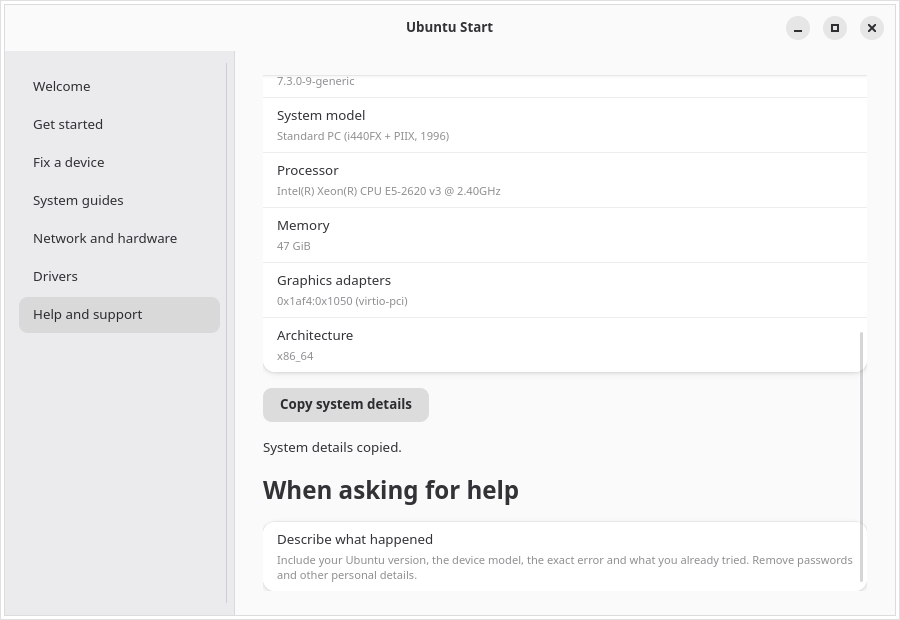
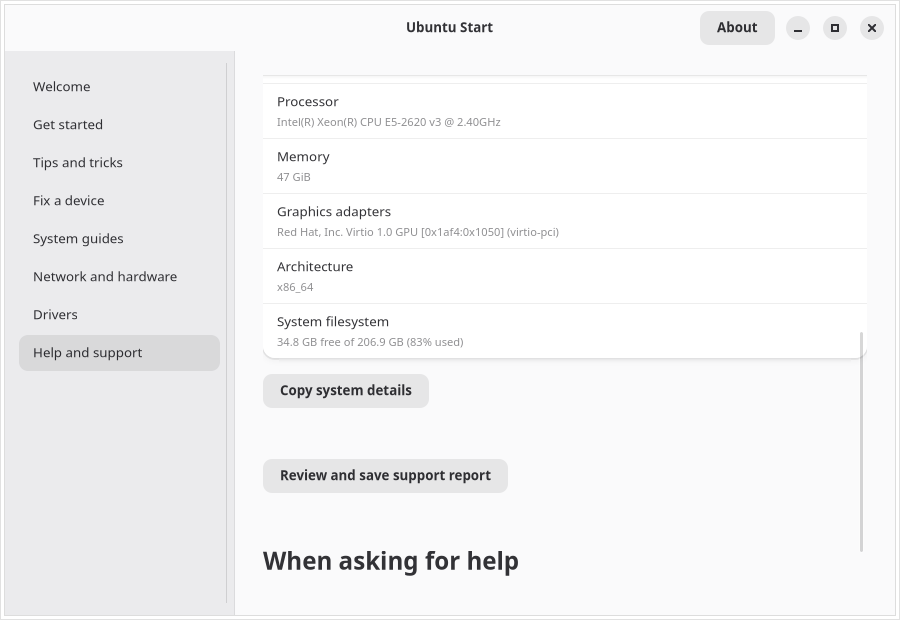
Include storage capacity in support details

diff --git a/tests/test_accessibility_announcements.py b/tests/test_accessibility_announcements.py
@@ -192,6 +192,42 @@ class AboutDialogTests(unittest.TestCase):
         dialog.present.assert_called_once_with(app.get_active_window.return_value)
 
 
+class SystemDetailsTests(unittest.TestCase):
+    @patch("ubuntu_start.read_storage_locations")
+    @patch("ubuntu_start.read_hardware_details")
+    @patch("ubuntu_start.platform.freedesktop_os_release", return_value={"PRETTY_NAME": "Ubuntu Test"})
+    def test_system_details_include_separate_filesystem_capacity(self, _os_release, hardware, storage):
+        hardware.return_value = {
+            "system_model": "Test model", "processor": "Test CPU", "memory": "8 GiB",
+            "graphics": [], "architecture": "x86_64",
+        }
+        storage.return_value = {
+            "system": {"total": 1000, "used": 500, "free": 500},
+            "home": {"total": 2000, "used": 1800, "free": 200},
+        }
+
+        details = UbuntuStart.system_details(Mock())
+
+        details_by_label = dict(details)
+        self.assertIn("500", details_by_label["System filesystem"])
+        self.assertIn("50% used", details_by_label["System filesystem"])
+        self.assertIn("200", details_by_label["Home folder filesystem"])
+        self.assertIn("90% used", details_by_label["Home folder filesystem"])
+
+    @patch("ubuntu_start.read_storage_locations", return_value={
+        "system": {"total": 1000, "used": 500, "free": 500},
+    })
+    @patch("ubuntu_start.read_hardware_details", return_value={
+        "system_model": None, "processor": None, "memory": None, "graphics": [], "architecture": "x86_64",
+    })
+    @patch("ubuntu_start.platform.freedesktop_os_release", return_value={"PRETTY_NAME": "Ubuntu Test"})
+    def test_system_details_omit_home_when_it_shares_the_system_filesystem(self, *_mocks):
+        details = UbuntuStart.system_details(Mock())
+
+        self.assertEqual(sum(label == "System filesystem" for label, _value in details), 1)
+        self.assertFalse(any(label == "Home folder filesystem" for label, _value in details))
+
+
 class DriverGuideTests(unittest.TestCase):
     def test_unknown_adapter_help_links_to_hardware_overview(self):
         app = Mock()

diff --git a/src/ubuntu_start.py b/src/ubuntu_start.py
@@ -902,6 +902,7 @@ class UbuntuStart(Adw.Application):
         desktop = os.environ.get("XDG_CURRENT_DESKTOP", "GNOME").replace(":", ", ")
         hardware = read_hardware_details()
         graphics = "; ".join(hardware["graphics"]) if hardware["graphics"] else _("Not available")
+        storage_locations = read_storage_locations()
         details = [
             (_("Ubuntu version"), os_name),
             (_("Desktop"), desktop),
@@ -912,6 +913,15 @@ class UbuntuStart(Adw.Application):
             (_("Graphics adapters"), graphics),
             (_("Architecture"), platform.machine()),
         ]
+        for location, storage in storage_locations.items():
+            label = _("System filesystem") if location == "system" else _("Home folder filesystem")
+            percent = round(storage["used"] / storage["total"] * 100) if storage["total"] else 0
+            value = _("{free} free of {total} ({percent}% used)").format(
+                free=GLib.format_size(storage["free"]),
+                total=GLib.format_size(storage["total"]),
+                percent=percent,
+            )
+            details.append((label, value))
         return details
 
     def make_help(self):

diff --git a/README.md b/README.md
@@ -16,9 +16,9 @@ An Ubuntu Desktop guide for first-run setup and device troubleshooting.
 
 ![Read-only network and hardware overview](screenshots/network-hardware-en.png)
 
-[More screenshots: network diagnostics (EN)](screenshots/network-diagnostics-en.png) · [audio status (EN)](screenshots/audio-status-en.png) · [storage and battery (EN)](screenshots/storage-en.png) · [Terminal guide (EN)](screenshots/terminal-guide-en.png) · [WiFi Analyzer recommendation (EN)](screenshots/wifi-analyzer-en.png) · [help page (EN)](screenshots/help-en.png) · [hardware summary (EN)](screenshots/help-hardware-en.png)
+[More screenshots: network diagnostics (EN)](screenshots/network-diagnostics-en.png) · [audio status (EN)](screenshots/audio-status-en.png) · [storage and battery (EN)](screenshots/storage-en.png) · [system details and storage (EN)](screenshots/copy-system-details-en.png) · [Terminal guide (EN)](screenshots/terminal-guide-en.png) · [WiFi Analyzer recommendation (EN)](screenshots/wifi-analyzer-en.png) · [help page (EN)](screenshots/help-en.png) · [hardware summary (EN)](screenshots/help-hardware-en.png)
 
-[Swedish system guides](screenshots/system-guides-sv.png) · [network and hardware overview](screenshots/network-hardware-sv.png) · [network diagnostics](screenshots/network-diagnostics-sv.png) · [audio status](screenshots/audio-status-sv.png) · [storage and battery](screenshots/storage-sv.png) · [Terminal guide](screenshots/terminal-guide-sv.png) · [WiFi Analyzer recommendation](screenshots/wifi-analyzer-sv.png) · [help page](screenshots/help-sv.png) · [hardware summary](screenshots/help-hardware-sv.png) · [accessibility settings](screenshots/accessibility-panel-en.png)
+[Swedish system guides](screenshots/system-guides-sv.png) · [network and hardware overview](screenshots/network-hardware-sv.png) · [network diagnostics](screenshots/network-diagnostics-sv.png) · [audio status](screenshots/audio-status-sv.png) · [storage and battery](screenshots/storage-sv.png) · [system details and storage](screenshots/copy-system-details-sv.png) · [Terminal guide](screenshots/terminal-guide-sv.png) · [WiFi Analyzer recommendation](screenshots/wifi-analyzer-sv.png) · [help page](screenshots/help-sv.png) · [hardware summary](screenshots/help-hardware-sv.png) · [accessibility settings](screenshots/accessibility-panel-en.png)
 
 
 Ubuntu Start combines a first-run guide with practical device troubleshooting for Ubuntu Desktop. It is a GTK 4/libadwaita application intended for Ubuntu GNOME.
@@ -43,7 +43,7 @@ See [CONTRIBUTING.md](CONTRIBUTING.md) for contributor guidance and the maintain
 - Wi-Fi troubleshooting recommends [WiFi Analyzer](https://github.com/yeager/wifi-analyzer) for nearby signal levels and channel use. Opening GitHub requires confirmation.
 - Built-in links to official Ubuntu documentation, Ask Ubuntu and the Ubuntu support forum.
 - Read-only NetworkManager, Bluetooth, hardware and storage summaries, battery charge and estimated capacity versus original design when exposed. Storage shows the system filesystem and, when it is a separate mounted volume, the home filesystem too; it flags volumes that are almost full. Graphics adapters are matched against an installed local PCI ID database when available, with the numeric IDs retained for reference. If the optional `iw` tool is installed, active Wi-Fi status also shows signal strength and receive/transmit link rates without collecting the network name or scanning nearby networks. Link rates are not internet speed tests. A copyable support report omits usernames, host names, serial numbers, network addresses, Wi-Fi names and installed applications.
-- A local support report can be reviewed and edited before saving. It includes system details and optional DNS/gateway timing; it excludes network addresses, interfaces, MAC addresses and vendor matches. The app does not upload it.
+- A local support report can be reviewed and edited before saving. It includes available space on the system filesystem and any separate home filesystem, plus optional DNS/gateway timing; it excludes network addresses, interfaces, MAC addresses and vendor matches. The app does not upload it.
 - Search and guide selectors have visible labels for assistive technology, and guides remain navigable with the keyboard.
 - Links into GNOME Control Center and Ubuntu's Additional Drivers tool. System changes remain in Ubuntu's own tools and require the user's confirmation.
 - gettext-based localization with English source strings and a complete Swedish (`sv`) catalog.
@@ -111,7 +111,7 @@ Tagged versions (`v*`) are built by GitHub Actions. Releases include a source ar
 
 ## Screenshots
 
-The screenshots show the welcome page, printer troubleshooting, Wi-Fi setup, accessibility instructions and network status. Additional English and Swedish screenshots include the storage and battery summary.
+The screenshots show the welcome page, printer troubleshooting, Wi-Fi setup, accessibility instructions and network status. Additional English and Swedish screenshots include storage, battery and support-report system details.
 
 
 ## License
